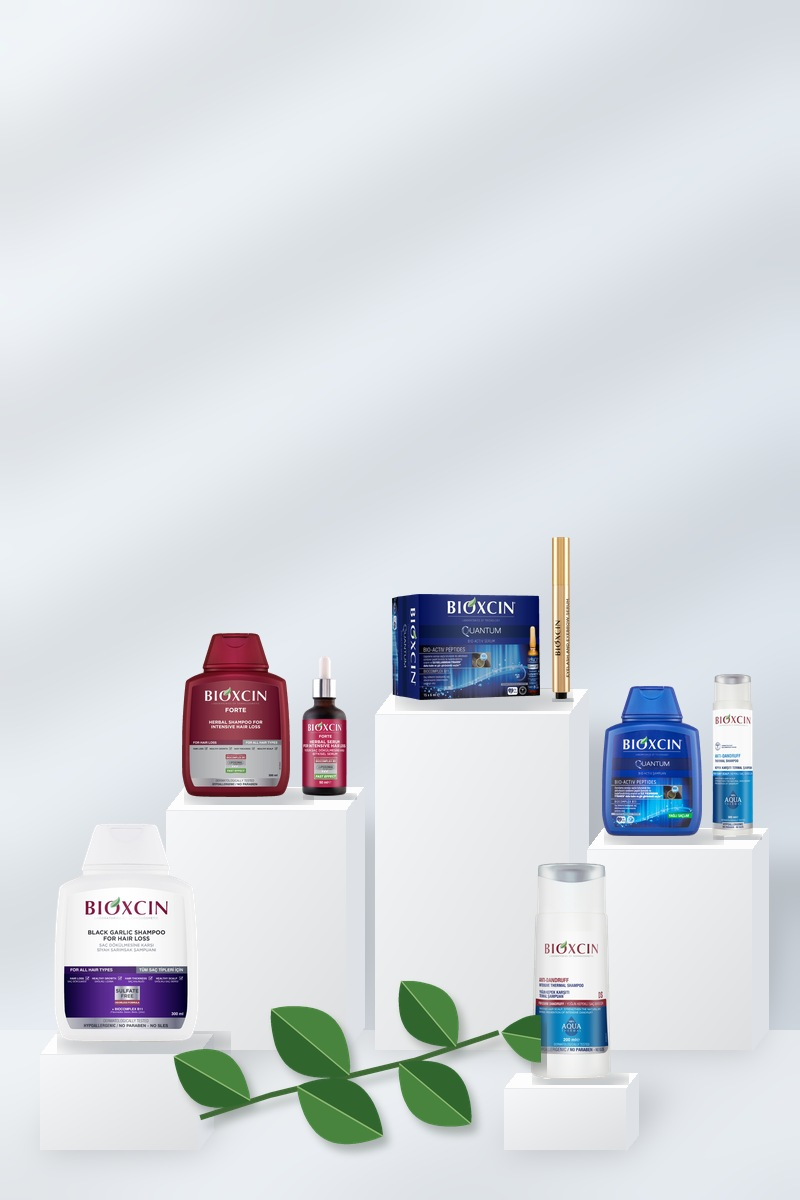
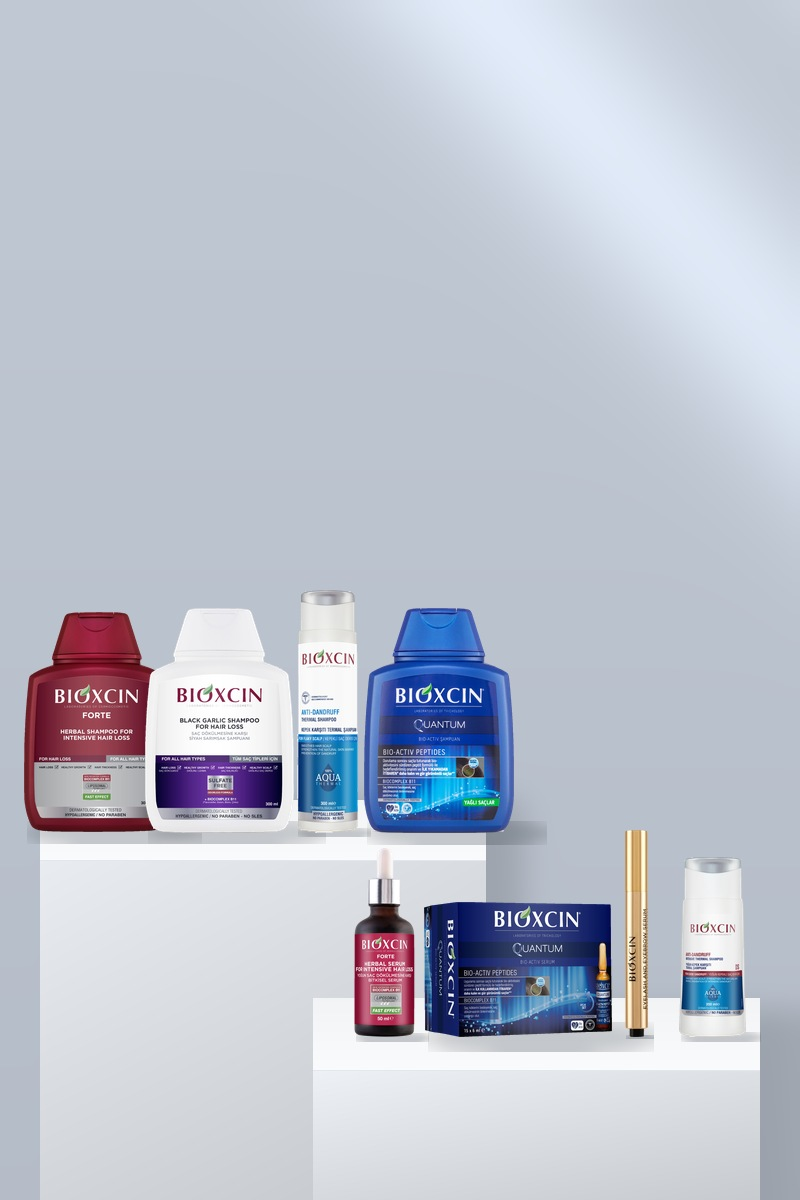
Offer 2: second reference style - two wide white steps on cool backdrop with diagonal light, larger products, no leaf, no typography
Claude-Session: https://claude.ai/code/session_01MejyVmSq2aYVYmituLqweB

diff --git a/banners/banners.css b/banners/banners.css
@@ -866,3 +866,13 @@ img.logo { object-fit: contain; }
 .podium.mobile-vertical-hero .pd3-type.v .pd-type.ar { font-size: 104px; margin: 20px 0 0; }
 .podium.mobile-vertical-hero .pd3-type.v .bf-sticker { position: absolute; width: 170px; top: -40px; left: auto; right: -40px; }
 [dir="rtl"].podium.mobile-vertical-hero .pd3-type.v .bf-sticker { right: auto; left: -40px; }
+/* typography removed: sticker sits alone near the logo */
+.banner.podium.pd3 .pd3-type, .podium.mobile-vertical-hero .pd3-type.v { width: 0; height: 0; }
+.banner.podium.pd3 .bf-sticker { position: absolute; top: auto; }
+.banner.podium.pd3.desktop-hero .pd3-text { justify-content: flex-start; align-items: flex-start; }
+.banner.podium.pd3 .pd3-text { justify-content: flex-start; align-items: flex-start; padding: 0; }
+.banner.podium.pd3.desktop-hero .bf-sticker { top: 90px; inset-inline-start: 40px; inset-inline-end: auto; width: 150px; }
+.banner.podium.pd3.mobile-hero .bf-sticker { top: 70px; inset-inline-start: 18px; inset-inline-end: auto; width: 110px; }
+.banner.podium.pd3.mobile-slim .bf-sticker { top: 60px; inset-inline-start: 16px; inset-inline-end: auto; width: 90px; }
+.podium.mobile-vertical-hero .pd3-type.v .bf-sticker { top: 30px; right: auto; left: 0; width: 200px; transform: translateX(-50%); }
+[dir="rtl"].podium.mobile-vertical-hero .pd3-type.v .bf-sticker { left: 0; }

diff --git a/banners/banners.js b/banners/banners.js
@@ -395,7 +395,7 @@ function podiumBannerHTML(offer, size, lang, style) {
          data-file="${offer.id}/${size.device}-${lang}-${size.w}x${size.h}.png"
          style="${style};background:url('products/offer2-bg-800x1200-${lang}.jpg') 0 0/100% 100%">
       <img class="pd-logo" src="products/bioxcin-logo-red.png" alt="BIOXCIN">
-      <div class="pd-copy"><div class="pd3-type v">${b2g2Lockup(lang)}${sticker}</div></div>
+      <div class="pd-copy"><div class="pd3-type v">${sticker}</div></div>
     </div>`;
   }
   // wide: logo in the top corner, lockup (+ sticker on its corner) centred on the text side, no button
@@ -404,7 +404,7 @@ function podiumBannerHTML(offer, size, lang, style) {
          data-file="${offer.id}/${size.device}-${lang}-${size.w}x${size.h}.png"
          style="${style};background:url('products/offer2-bg-${size.w}x${size.h}-${lang}.jpg') 0 0/100% 100%">
       <img class="pd3-logo" src="products/bioxcin-logo-red.png" alt="BIOXCIN">
-      <div class="pd3-text"><div class="pd3-type">${b2g2Lockup(lang)}${sticker}</div></div>
+      <div class="pd3-text"><div class="pd3-type">${sticker}</div></div>
     </div>`;
 }
 

diff --git a/banners/make-offer2-cubes.py b/banners/make-offer2-cubes.py
@@ -12,11 +12,11 @@ P = {k: Image.open(here / f"products/{v}.png").convert("RGBA") for k, v in {
     "qshamp": "bioxcin-quantum-shampoo", "ds": "bioxcin-anti-dandruff-ds-shampoo"}.items()}
 REAL_H = {"garlic": 1.0, "box": 0.6, "forte": 0.98, "serum": 0.84, "thermal": 1.08, "pen": 0.92, "qshamp": 1.0, "ds": 0.8}
 
-# cubes: name -> (centre x-fraction, width-fraction, height-fraction, row)  row 0 = back, 1 = front
-CUBES = {"A": (0.30, 0.25, 0.50, 0), "B": (0.60, 0.27, 0.70, 0), "C": (0.875, 0.23, 0.42, 0),
-         "D": (0.11, 0.22, 0.20, 1), "E": (0.73, 0.17, 0.13, 1)}
-ON = {"A": ["forte", "serum"], "B": ["box", "pen"], "C": ["qshamp", "thermal"], "D": ["garlic"], "E": ["ds"]}
-ORDER = ["B", "A", "C", "D", "E"]
+# one product per cube. Left→right order with row (F = front/low cube, B = back/tall cube)
+SEQ = [("garlic", "F"), ("box", "B"), ("forte", "F"), ("serum", "B"),
+       ("qshamp", "F"), ("pen", "B"), ("ds", "F"), ("thermal", "B")]
+BACK_H = [0.78, 1.0, 0.86, 0.94]     # back cube heights (fraction of hb)
+FRONT_H = [0.22, 0.30, 0.18, 0.26]   # front cube heights (fraction of hb)
 
 def backdrop(W, H, rtl):
     yy, xx = np.mgrid[0:H, 0:W].astype(np.float32)
@@ -52,81 +52,180 @@ def leaf_sprig(scale, flip):
     im = im.resize((Wd // S, Hd // S), Image.LANCZOS)
     return im.transpose(Image.FLIP_LEFT_RIGHT) if flip else im
 
-def build(W, H, x0, x1, base_back, base_front, hmax, u, rtl, leaf=(0.44, 0.95)):
-    img = backdrop(W, H, rtl)
-    R = x1 - x0
-    def X(f): return x0 + f * R if not rtl else W - (x0 + f * R)
+def draw_cube(out, cx, w, h, by, rtl):
     sgn = 1 if not rtl else -1
-    # floor: bright surface under the cubes
-    fy = int(base_back - (base_front - base_back) * 0.2)
-    fl = np.linspace(0, 1, H - fy)[:, None, None]
-    img[fy:] = img[fy:] * (1 - 0.6 * (1 - fl * 0.4)) + np.array([246, 247, 248.]) * 0.6 * (1 - fl * 0.4)
-    # cast shadows (light from upper left → shadows to the right; mirrored in RTL)
-    sh = np.zeros((H, W), np.float32)
-    for k, (f, wf, hf, row) in CUBES.items():
-        w, h = wf * R, hf * hmax; by = base_front if row else base_back
-        x = X(f); off = w * 0.35 * sgn
-        pts = np.array([[x - w / 2, by], [x + w / 2, by], [x + w / 2 + off, by - h * 0.95], [x - w / 2 + off, by - h * 0.95]], np.int32)
-        cv2.fillPoly(sh, [pts], 1.0)
-    sh = cv2.GaussianBlur(sh, (0, 0), R * 0.022)
-    img = img * (1 - 0.16 * sh[..., None])
-    out = Image.fromarray(img.clip(0, 255).astype(np.uint8))
+    w, h = int(w), int(h)
+    dx, dy = int(w * 0.10) * sgn, int(w * 0.12)
+    xa, xb = int(cx - w / 2), int(cx + w / 2); yt = int(by - h)
+    a = np.asarray(out).astype(np.float32).copy()
+    xs = np.linspace(0, 1, xb - xa); xs = xs if not rtl else xs[::-1]
+    a[yt:int(by), xa:xb] = np.array([246, 247, 248.]) * (1.0 - 0.05 * xs)[None, :, None] * np.linspace(1.0, 0.95, int(by) - yt)[:, None, None]
+    out = Image.fromarray(a.clip(0, 255).astype(np.uint8))
+    dr = ImageDraw.Draw(out)
+    dr.polygon([(xa, yt), (xb, yt), (xb + dx, yt - dy), (xa + dx, yt - dy)], fill=(253, 253, 253))
+    sx = xb if not rtl else xa
+    dr.polygon([(sx, yt), (sx + dx, yt - dy), (sx + dx, by - dy), (sx, by)], fill=(222, 226, 231))
+    dr.line([(xa, yt), (xb, yt)], fill=(232, 234, 237), width=1)
+    return out, (cx + dx / 2, yt - dy * 0.55)
 
-    def cube(k):
-        nonlocal out
-        f, wf, hf, row = CUBES[k]
-        w, h = int(wf * R), int(hf * hmax); by = int(base_front if row else base_back)
-        dx, dy = int(w * 0.10) * sgn, int(w * 0.13)
-        cx = X(f); xa, xb = int(cx - w / 2), int(cx + w / 2); yt = by - h
-        a = np.asarray(out).astype(np.float32).copy()
-        # front face: matte white with gentle vertical falloff + slight horizontal light
-        xs = np.linspace(0, 1, xb - xa); xs = xs if not rtl else xs[::-1]
-        face = np.array([246, 247, 248.]) * (1.0 - 0.05 * xs)[None, :, None] * np.linspace(1.0, 0.95, h)[:, None, None]
-        a[yt:by, xa:xb] = face
-        out = Image.fromarray(a.clip(0, 255).astype(np.uint8))
-        dr = ImageDraw.Draw(out)
-        top = [(xa, yt), (xb, yt), (xb + dx, yt - dy), (xa + dx, yt - dy)]
-        dr.polygon(top, fill=(253, 253, 253))
-        side_x = xb if not rtl else xa
-        side = [(side_x, yt), (side_x + dx, yt - dy), (side_x + dx, by - dy), (side_x, by)]
-        dr.polygon(side, fill=(222, 226, 231))
-        dr.line([(xa, yt), (xb, yt)], fill=(232, 234, 237), width=1)        # crisp front edge
-        return (cx + dx / 2, yt - dy * 0.55, w)
-
-    for k in ORDER:
-        topx, topy, w = cube(k)
-        keys = ON[k]; front = CUBES[k][3] == 1
-        hs = [u * REAL_H[q] * (1.0 if front else 0.92) for q in keys]
-        ws = [P[q].width * hh / P[q].height for q, hh in zip(keys, hs)]
-        gap = u * 0.06
-        kf = min(1.0, (w * 0.92) / (sum(ws) + gap * (len(keys) - 1)))
-        hs = [hh * kf for hh in hs]; ws = [ww * kf for ww in ws]
-        total = sum(ws) + gap * kf * (len(keys) - 1); rel = -total / 2
-        for q, hh, ww in zip(keys, hs, ws):
-            c = topx + (rel + ww / 2) * sgn; rel += ww + gap * kf
-            # product shadow on the cube top + soft cast shadow
-            sh_im = Image.new("RGBA", (int(ww * 1.2), max(4, int(ww * 0.16))), (0, 0, 0, 0))
-            ImageDraw.Draw(sh_im).ellipse((0, 0, sh_im.width, sh_im.height), fill=(60, 70, 80, 70))
-            sh_im = sh_im.filter(ImageFilter.GaussianBlur(max(1.5, ww * 0.04)))
-            out.paste(sh_im, (int(c - sh_im.width / 2 + ww * 0.12 * sgn), int(topy - sh_im.height * 0.5)), sh_im)
-            rim = P[q].resize((int(ww), int(hh)), Image.LANCZOS)
-            alpha = rim.getchannel("A").point(lambda v: 0 if v < 24 else v)
-            out.paste(rim.convert("RGB"), (int(c - ww / 2), int(topy - hh)), alpha)
-    # green leaf sprig resting at the front
-    lf = leaf_sprig(u / 190, rtl)
-    lx = X(leaf[0]) - lf.width / 2; ly = base_front - lf.height * leaf[1]
-    shadow = lf.getchannel("A").filter(ImageFilter.GaussianBlur(4)).point(lambda v: int(v * 0.35))
-    out.paste((60, 70, 60), (int(lx + 6 * sgn), int(ly + 8)), shadow)
-    out.paste(lf, (int(lx), int(ly)), lf)
+def put_product(out, k, cx, by, h, rtl):
+    sgn = 1 if not rtl else -1
+    w = P[k].width * h / P[k].height
+    e = Image.new("RGBA", (int(w * 1.2), max(4, int(w * 0.16))), (0, 0, 0, 0))
+    ImageDraw.Draw(e).ellipse((0, 0, e.width, e.height), fill=(60, 70, 80, 70))
+    e = e.filter(ImageFilter.GaussianBlur(max(1.5, w * 0.04)))
+    out.paste(e, (int(cx - e.width / 2 + w * 0.12 * sgn), int(by - e.height * 0.5)), e)
+    rim = P[k].resize((int(w), int(h)), Image.LANCZOS)
+    alpha = rim.getchannel("A").point(lambda v: 0 if v < 24 else v)
+    out.paste(rim.convert("RGB"), (int(cx - w / 2), int(by - h)), alpha)
     return out
 
-SIZES = {  # W, H, x0, x1, base_back, base_front, hmax, u
-    "1440x300": (1440, 300, 700, 1405, 266, 292, 140, 118),
-    "706x320": (706, 320, 316, 700, 284, 312, 150, 100),
-    "800x200": (800, 200, 398, 792, 178, 196, 86, 72),
-    "800x1200": (800, 1200, 40, 760, 1050, 1150, 480, 270),
+def cast_shadows(img, cubes, R, rtl):
+    H, W = img.shape[:2]; sgn = 1 if not rtl else -1
+    sh = np.zeros((H, W), np.float32)
+    for cx, w, h, by in cubes:
+        off = w * 0.35 * sgn
+        pts = np.array([[cx - w / 2, by], [cx + w / 2, by], [cx + w / 2 + off, by - h * 0.95], [cx - w / 2 + off, by - h * 0.95]], np.int32)
+        cv2.fillPoly(sh, [pts], 1.0)
+    sh = cv2.GaussianBlur(sh, (0, 0), R * 0.02)
+    return img * (1 - 0.16 * sh[..., None])
+
+def floor(img, fy):
+    H = img.shape[0]
+    fl = np.linspace(0, 1, H - fy)[:, None, None]
+    img[fy:] = img[fy:] * (1 - 0.6 * (1 - fl * 0.4)) + np.array([246, 247, 248.]) * 0.6 * (1 - fl * 0.4)
+    return img
+
+def ratio(k): return P[k].width / P[k].height * REAL_H[k]
+
+def build(W, H, x0, x1, base_back, base_front, hb, u_max, rtl, top_pad=10):
+    """Wide: staggered single sequence, back cubes tall, front cubes low."""
+    img = floor(backdrop(W, H, rtl), int(base_back - 6))
+    R = x1 - x0; gap = 0.07
+    # largest u that fits the width and keeps the tallest back product inside the banner
+    u_w = R / (sum(ratio(k) * (0.94 if r == "B" else 1) for k, r in SEQ) + gap * (len(SEQ) - 1))
+    u_h = min((base_back - hb * BACK_H[i] - top_pad) / (REAL_H[k] * 0.94) for i, (k, r) in enumerate([s for s in SEQ if s[1] == "B"]))
+    u = min(u_max, u_w, u_h)
+    widths = [ratio(k) * u * (0.94 if r == "B" else 1) for k, r in SEQ]
+    total = sum(widths) + gap * u * (len(SEQ) - 1)
+    x = x0 + (R - total) / 2
+    items, bi, fi = [], 0, 0
+    for (k, r), w in zip(SEQ, widths):
+        cx = x + w / 2; x += w + gap * u
+        if rtl: cx = W - cx
+        if r == "B": ch, by, sc = hb * BACK_H[bi], base_back, 0.94; bi += 1
+        else: ch, by, sc = hb * FRONT_H[fi], base_front, 1.0; fi += 1
+        cw = max(w * 1.35, u * 0.42)
+        items.append((r, k, cx, cw, ch, by, sc))
+    img = cast_shadows(img, [(cx, cw, ch, by) for r, k, cx, cw, ch, by, sc in items], R, rtl)
+    out = Image.fromarray(img.clip(0, 255).astype(np.uint8))
+    for r, k, cx, cw, ch, by, sc in sorted(items, key=lambda t: t[0] != "B"):
+        out, (tx, ty) = draw_cube(out, cx, cw, ch, by, rtl)
+        out = put_product(out, k, tx, ty, u * REAL_H[k] * sc, rtl)
+    return out
+
+def build_vertical(W, H, x0, x1, base_front, rtl):
+    """Vertical: two packed rows — tall back cubes carry the small items above the front row."""
+    img = floor(backdrop(W, H, rtl), int(base_front - 110))
+    R = x1 - x0; gap = 0.08
+    front = [k for k, r in SEQ if r == "F"]; back = [k for k, r in SEQ if r == "B"]
+    uf = R / (sum(ratio(k) for k in front) + gap * 3)
+    fh = 110
+    front_top = base_front - fh - uf * max(REAL_H[k] for k in front)
+    ub = min(R / (sum(ratio(k) for k in back) + gap * 3 + 0.6), uf * 1.05)
+    base_back = base_front - 60
+    bh = base_back - front_top + uf * 0.25          # back cubes reach a bit above the front products' tops
+    cubes = []
+    def row(keys, u, by, heights, sc):
+        widths = [ratio(k) * u for k in keys]
+        tw = sum(widths) + gap * u * (len(keys) - 1)
+        x = x0 + (R - tw) / 2; res = []
+        for k, w, h in zip(keys, widths, heights):
+            cx = x + w / 2; x += w + gap * u
+            if rtl: cx = W - cx
+            res.append((k, cx, max(w * 1.3, u * 0.45), h, by, u * REAL_H[k] * sc))
+        return res
+    back_items = row(back, ub, base_back, [bh * f for f in (0.96, 1.0, 0.98, 0.94)], 1.0)
+    front_items = row(front, uf, base_front, [fh * f for f in (1.0, 0.82, 0.92, 0.76)], 1.0)
+    img = cast_shadows(img, [(cx, cw, ch, by) for k, cx, cw, ch, by, ph in back_items + front_items], R, rtl)
+    out = Image.fromarray(img.clip(0, 255).astype(np.uint8))
+    for k, cx, cw, ch, by, ph in back_items + front_items:
+        out, (tx, ty) = draw_cube(out, cx, cw, ch, by, rtl)
+        out = put_product(out, k, tx, ty, ph, rtl)
+    return out
+
+SIZES = {  # W, H, x0, x1, base_back, base_front, hb, u_max
+    "1440x300": (1440, 300, 560, 1415, 262, 292, 120, 175),
+    "706x320": (706, 320, 250, 700, 280, 312, 120, 140),
+    "800x200": (800, 200, 300, 794, 176, 196, 80, 110),
+}
+if False:
+    for name, (W, H, x0, x1, bb, bf, hb, um) in SIZES.items():
+        for rtl in (False, True):
+            build(W, H, x0, x1, bb, bf, hb, um, rtl).save(here / f"products/offer2-bg-{name}-{'ar' if rtl else 'en'}.jpg", quality=93)
+    for rtl in (False, True):
+        build_vertical(800, 1200, 30, 770, 1160, rtl).save(here / f"products/offer2-bg-800x1200-{'ar' if rtl else 'en'}.jpg", quality=93)
+
+
+# ---------- reference 2: two wide white steps, cool backdrop with strong diagonal light ----------
+def backdrop2(W, H, rtl):
+    yy, xx = np.mgrid[0:H, 0:W].astype(np.float32)
+    u = xx / W if not rtl else 1 - xx / W
+    base = np.array([214, 223, 236.]) * (1 - 0.06 * (yy / H))[..., None]
+    # diagonal light shafts (bright) separated by soft shadow bands
+    d = (u * W - yy * 0.9) / max(W, H * 2.2)
+    shafts = np.zeros_like(d)
+    for c, wdt, amp in [(0.18, 0.05, 1.0), (0.34, 0.035, 0.8), (0.55, 0.06, 0.9), (0.78, 0.04, 0.7)]:
+        shafts += amp * np.exp(-((d - c) / wdt) ** 2)
+    shafts = cv2.GaussianBlur(shafts.astype(np.float32), (0, 0), max(W, H) * 0.006)
+    return base * (0.9 + 0.16 * shafts[..., None])
+
+def step(a, xa, xb, yt, yb, depth, rtl, shade=1.0):
+    """White block: lit top face (perspective) + front face with light falloff."""
+    xa, xb, yt, yb = int(xa), int(xb), int(yt), int(yb)
+    xs = np.linspace(0, 1, xb - xa); xs = xs if not rtl else xs[::-1]
+    a[yt:yb, xa:xb] = np.array([238, 242, 247.]) * shade * (1.0 - 0.07 * xs)[None, :, None] * np.linspace(1.0, 0.9, yb - yt)[:, None, None]
+    a[yt - depth:yt, xa:xb] = np.array([250, 251, 253.]) * np.linspace(0.97, 1.0, depth)[:, None, None]
+    a[yt, xa:xb] = [226, 231, 238]
+    return a
+
+def build2(W, H, x0, x1, rtl, u, back, front, place):
+    """back/front = (x-fraction start, x-fraction end, top y, bottom y). place = list of (key, 'B'|'F', x-fraction)."""
+    a = backdrop2(W, H, rtl)
+    R = x1 - x0
+    def X(f): return x0 + f * R if not rtl else W - (x0 + f * R)
+    depth_b, depth_f = max(8, int(H * 0.05)), max(8, int(H * 0.06))
+    # block shadows on the wall (light from upper left)
+    sgn = 1 if not rtl else -1
+    sh = np.zeros(a.shape[:2], np.float32)
+    for (fa, fb, yt, yb) in (back, front):
+        xa, xb = sorted((X(fa), X(fb)))
+        cv2.rectangle(sh, (int(xa + R * 0.05 * sgn), int(yt - H * 0.05)), (int(xb + R * 0.05 * sgn), int(yb)), 1.0, -1)
+    a = a * (1 - 0.14 * cv2.GaussianBlur(sh, (0, 0), R * 0.02)[..., None])
+    for blk, dep, shd in ((back, depth_b, 0.98), (front, depth_f, 1.0)):
+        fa, fb, yt, yb = blk; xa, xb = sorted((X(fa), X(fb)))
+        a = step(a, xa, xb, yt, yb, dep, rtl, shd)
+    out = Image.fromarray(a.clip(0, 255).astype(np.uint8))
+    for row in ("B", "F"):
+        blk, dep = (back, depth_b) if row == "B" else (front, depth_f)
+        by = blk[2] - dep * 0.45
+        for k, r, f in place:
+            if r != row: continue
+            out = put_product(out, k, X(f), by, u * REAL_H[k], rtl)
+    return out
+
+LAYOUT2 = {  # W, H, x0, x1, u, back, front, place
+    "1440x300": (1440, 300, 620, 1410, 150, (0.0, 0.60, 200, 300), (0.50, 1.0, 250, 300), [("forte", "B", 0.07), ("garlic", "B", 0.2), ("thermal", "B", 0.32), ("qshamp", "B", 0.445),
+                  ("serum", "F", 0.58), ("box", "F", 0.72), ("pen", "F", 0.855), ("ds", "F", 0.95)]),
+    "706x320": (706, 320, 290, 700, 118, (0.0, 0.60, 214, 320), (0.50, 1.0, 266, 320), [("forte", "B", 0.07), ("garlic", "B", 0.2), ("thermal", "B", 0.32), ("qshamp", "B", 0.445),
+                  ("serum", "F", 0.58), ("box", "F", 0.72), ("pen", "F", 0.855), ("ds", "F", 0.95)]),
+    "800x200": (800, 200, 370, 796, 82, (0.0, 0.60, 136, 200), (0.50, 1.0, 168, 200), [("forte", "B", 0.07), ("garlic", "B", 0.2), ("thermal", "B", 0.32), ("qshamp", "B", 0.445),
+                  ("serum", "F", 0.58), ("box", "F", 0.72), ("pen", "F", 0.855), ("ds", "F", 0.95)]),
+    "800x1200": (800, 1200, 40, 760, 225, (0.0, 0.62, 860, 1200), (0.38, 1.0, 1070, 1200),
+                 [("forte", "B", 0.08), ("garlic", "B", 0.25), ("thermal", "B", 0.4), ("qshamp", "B", 0.555),
+                  ("serum", "F", 0.48), ("box", "F", 0.665), ("pen", "F", 0.83), ("ds", "F", 0.935)]),
 }
 if __name__ == "__main__":
-    for name, (W, H, x0, x1, bb, bf, hm, u) in SIZES.items():
+    for name, (W, H, x0, x1, u, back, front, place) in LAYOUT2.items():
         for rtl in (False, True):
-            build(W, H, x0, x1, bb, bf, hm, u, rtl).save(here / f"products/offer2-bg-{name}-{'ar' if rtl else 'en'}.jpg", quality=93)
+            build2(W, H, x0, x1, rtl, u, back, front, place).save(here / f"products/offer2-bg-{name}-{'ar' if rtl else 'en'}.jpg", quality=93)
